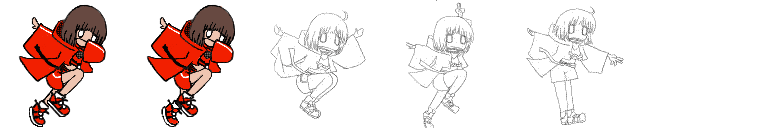
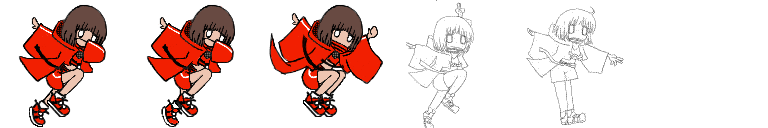
パターン３の更新

Changed region(s): [[0.3438, 0.0312, 0.5, 0.9375]]

diff --git a/SHU/main_test.js b/SHU/main_test.js
@@ -8,7 +8,7 @@ var POINT_RATIO_X3_ZONE = SCREEN_CENTER_X / 4;   // 得点3倍ゾーン
 
 var FONT_FAMILY = "'Press Start 2P','Meiryo',sans-serif";
 var ASSETS = {
-    "player": "./resource/shinobi_128_anim.png?20220318",
+    "player": "./resource/shinobi_128_anim.png?20220319",
     "pl_shuriken": "./resource/shuriken.png",
     "ene_shuriken": "./resource/shuriken.png",
 

diff --git a/SHU/index_test.html b/SHU/index_test.html
@@ -40,7 +40,7 @@
     <script src="https://cdn.jsdelivr.net/gh/phi-jp/tmlib.js@0.3.0/build/tmlib.js"></script>
     <script src="https://cdnjs.cloudflare.com/ajax/libs/howler/2.1.2/howler.min.js"></script>
     <script src='enum.js'></script>
-    <script src='main_test.js?20220318'></script>
+    <script src='main_test.js?20220319'></script>
 </head>
 
 <body>
